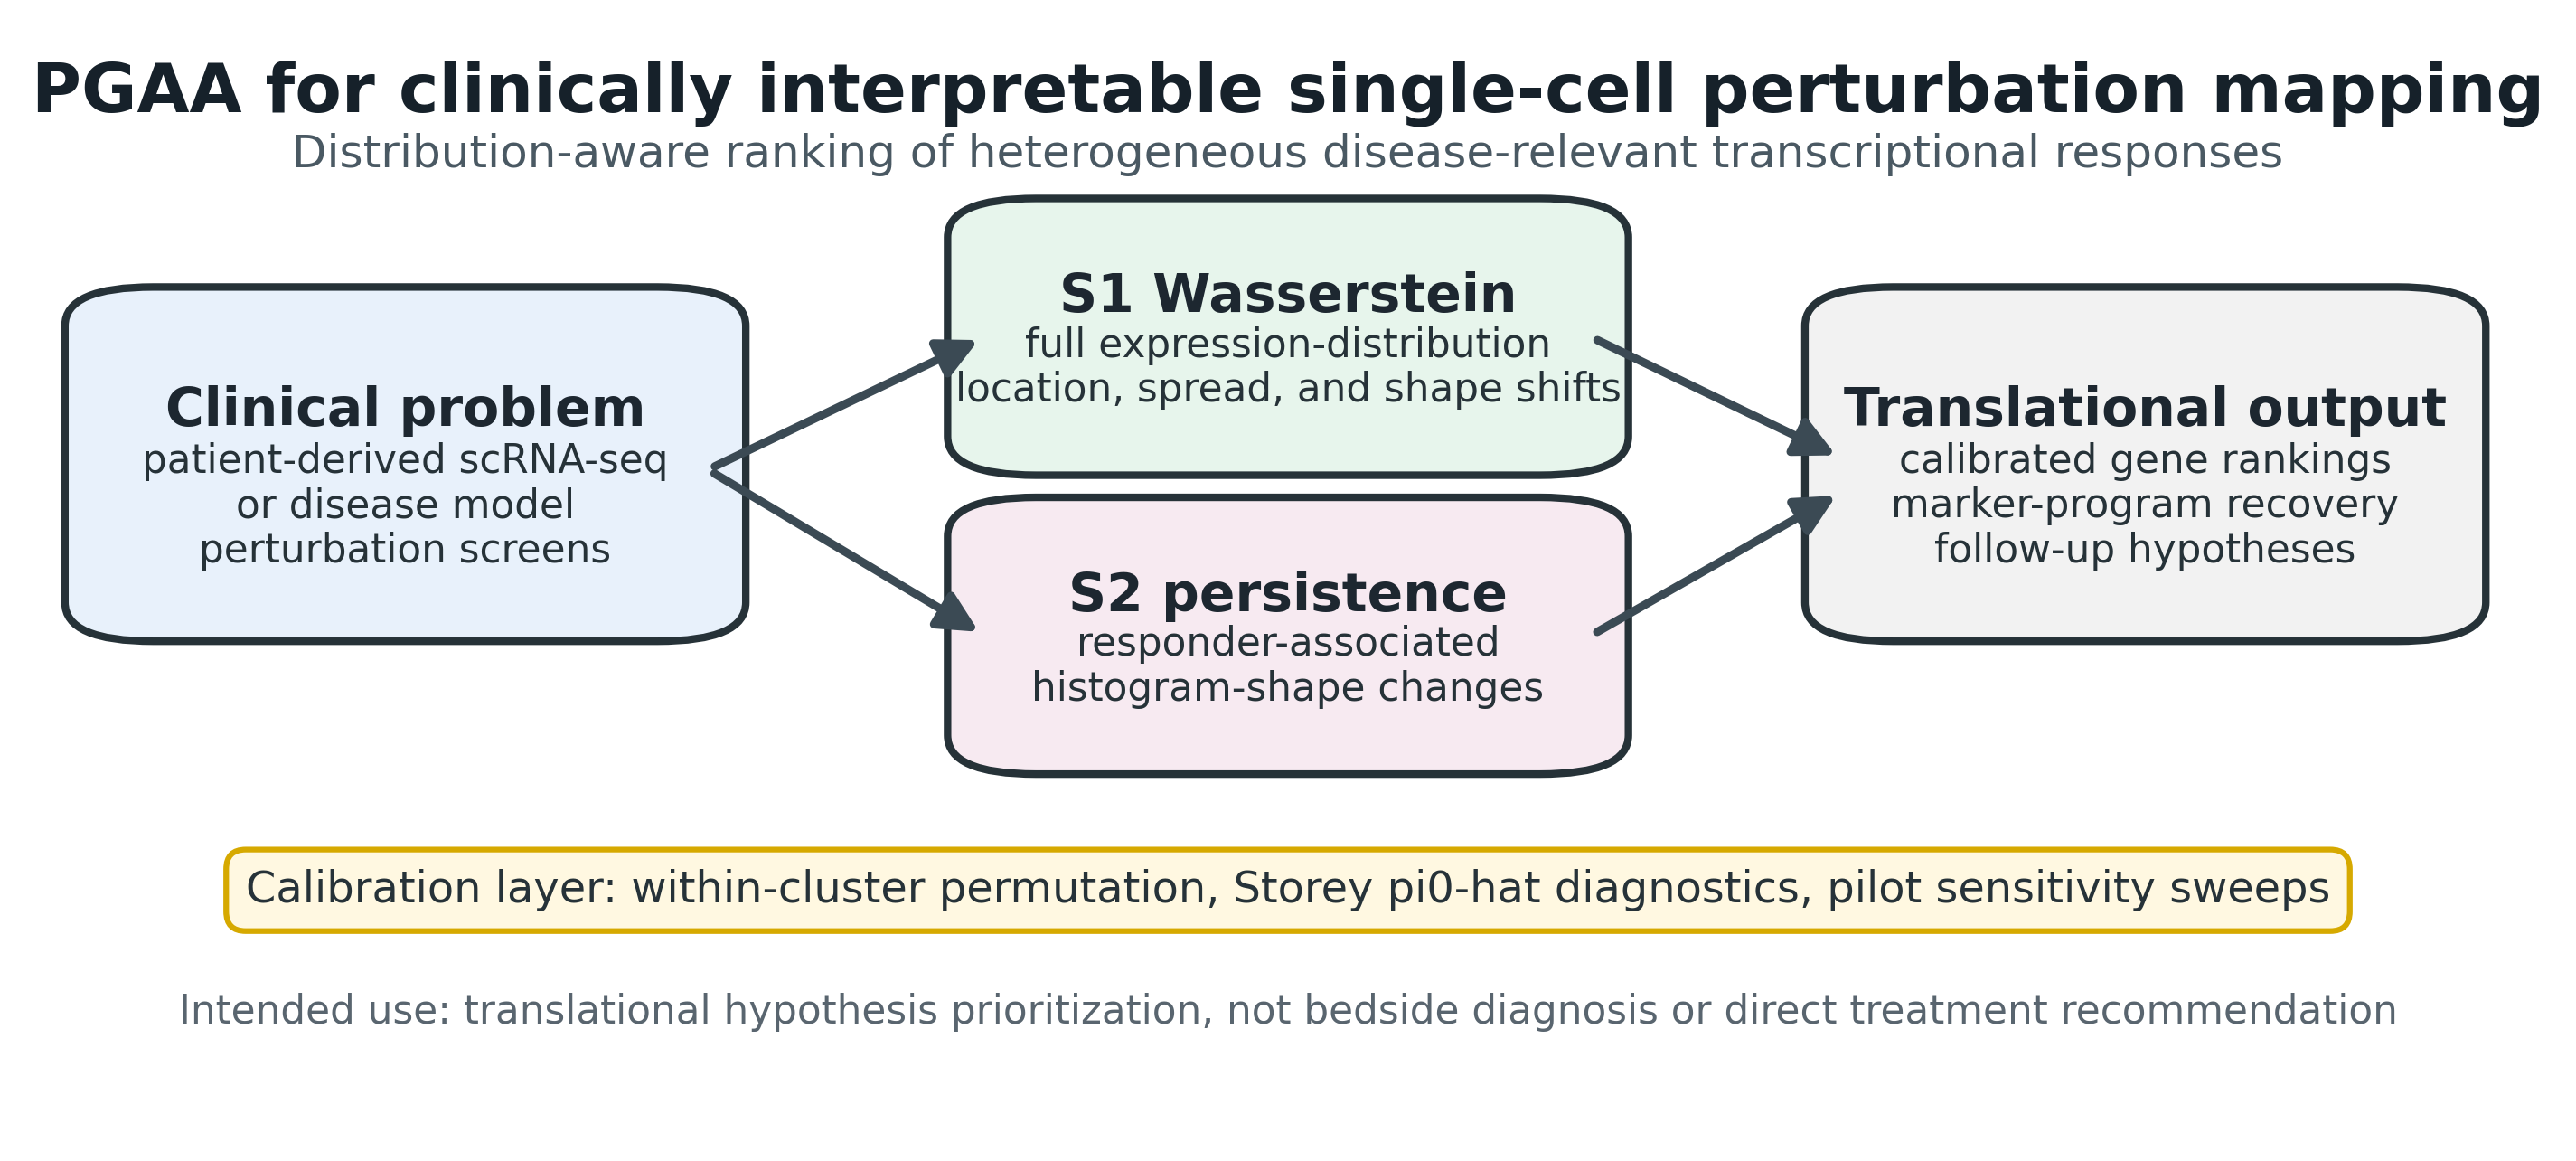
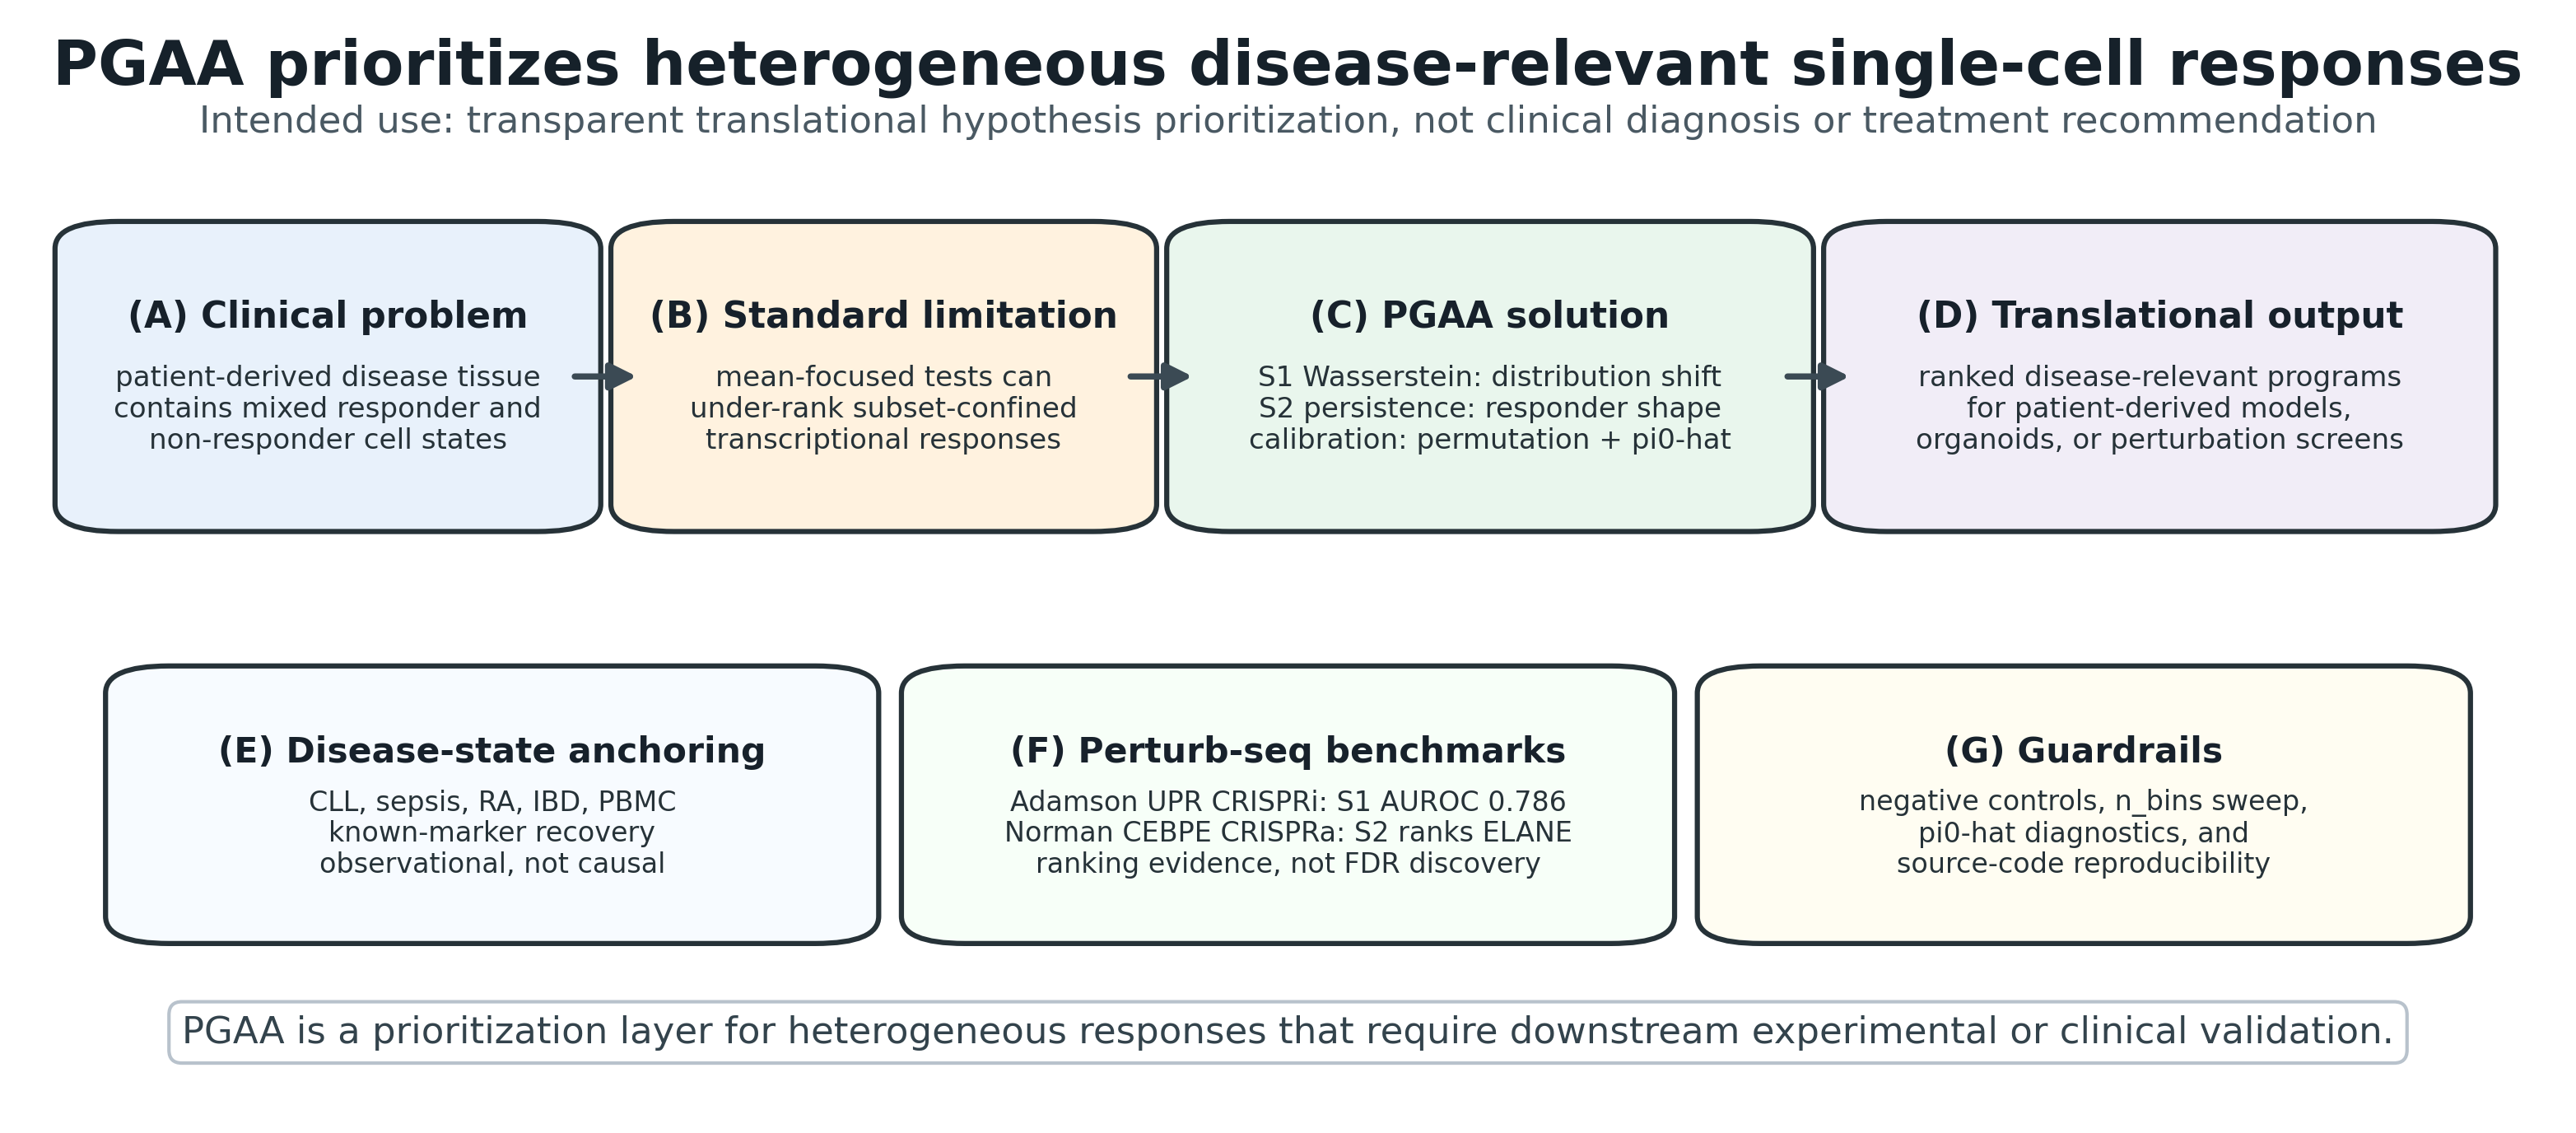
Strengthen CM clinical positioning

diff --git a/COMMUNICATIONS_MEDICINE_TRANSFER/scripts_generate_cm_entry_figure.py b/COMMUNICATIONS_MEDICINE_TRANSFER/scripts_generate_cm_entry_figure.py
@@ -9,23 +9,39 @@ from matplotlib.patches import FancyArrowPatch, FancyBboxPatch
 OUT = Path("figures_png/figure_cm_entry.png")
 
 
-def box(ax, xy, wh, title, body, fc, ec="#263238"):
+def box(ax, xy, wh, title, body, fc, ec="#263238", title_size=10.5, body_size=8.2):
     x, y = xy
     w, h = wh
     patch = FancyBboxPatch(
         (x, y),
         w,
         h,
-        boxstyle="round,pad=0.025,rounding_size=0.035",
+        boxstyle="round,pad=0.018,rounding_size=0.025",
         facecolor=fc,
         edgecolor=ec,
-        linewidth=2.0,
+        linewidth=1.5,
     )
     ax.add_patch(patch)
-    ax.text(x + w / 2, y + h * 0.68, title, ha="center", va="center",
-            fontsize=14, weight="bold", color="#1d2730")
-    ax.text(x + w / 2, y + h * 0.36, body, ha="center", va="center",
-            fontsize=10.5, color="#263238", linespacing=1.2)
+    ax.text(
+        x + w / 2,
+        y + h * 0.72,
+        title,
+        ha="center",
+        va="center",
+        fontsize=title_size,
+        weight="bold",
+        color="#17212b",
+    )
+    ax.text(
+        x + w / 2,
+        y + h * 0.38,
+        body,
+        ha="center",
+        va="center",
+        fontsize=body_size,
+        color="#263238",
+        linespacing=1.18,
+    )
 
 
 def arrow(ax, start, end):
@@ -34,23 +50,23 @@ def arrow(ax, start, end):
             start,
             end,
             arrowstyle="-|>",
-            mutation_scale=22,
-            linewidth=2.2,
+            mutation_scale=16,
+            linewidth=1.8,
             color="#3b4a54",
         )
     )
 
 
 def main():
-    fig, ax = plt.subplots(figsize=(12, 5.3))
+    fig, ax = plt.subplots(figsize=(13.2, 5.7))
     ax.set_xlim(0, 1)
     ax.set_ylim(0, 1)
     ax.axis("off")
 
     ax.text(
         0.5,
-        0.94,
-        "PGAA for clinically interpretable single-cell perturbation mapping",
+        0.96,
+        "PGAA prioritizes heterogeneous disease-relevant single-cell responses",
         ha="center",
         va="center",
         fontsize=18,
@@ -59,70 +75,91 @@ def main():
     )
     ax.text(
         0.5,
-        0.885,
-        "Distribution-aware ranking of heterogeneous disease-relevant transcriptional responses",
+        0.91,
+        "Intended use: transparent translational hypothesis prioritization, not clinical diagnosis or treatment recommendation",
         ha="center",
         va="center",
-        fontsize=12,
+        fontsize=10.8,
         color="#4a5963",
     )
 
     box(
         ax,
-        (0.04, 0.47),
-        (0.22, 0.27),
-        "Clinical problem",
-        "patient-derived scRNA-seq\nor disease model\nperturbation screens",
+        (0.03, 0.55),
+        (0.18, 0.25),
+        "(A) Clinical problem",
+        "patient-derived disease tissue\ncontains mixed responder and\nnon-responder cell states",
         "#e8f1fb",
     )
     box(
         ax,
-        (0.39, 0.62),
-        (0.22, 0.20),
-        "S1 Wasserstein",
-        "full expression-distribution\nlocation, spread, and shape shifts",
-        "#e7f5ec",
+        (0.25, 0.55),
+        (0.18, 0.25),
+        "(B) Standard limitation",
+        "mean-focused tests can\nunder-rank subset-confined\ntranscriptional responses",
+        "#fff2df",
     )
     box(
         ax,
-        (0.39, 0.35),
-        (0.22, 0.20),
-        "S2 persistence",
-        "responder-associated\nhistogram-shape changes",
-        "#f7eaf1",
+        (0.47, 0.55),
+        (0.22, 0.25),
+        "(C) PGAA solution",
+        "S1 Wasserstein: distribution shift\nS2 persistence: responder shape\ncalibration: permutation + pi0-hat",
+        "#e9f6ed",
     )
     box(
         ax,
-        (0.73, 0.47),
-        (0.22, 0.27),
-        "Translational output",
-        "calibrated gene rankings\nmarker-program recovery\nfollow-up hypotheses",
-        "#f2f2f2",
+        (0.73, 0.55),
+        (0.23, 0.25),
+        "(D) Translational output",
+        "ranked disease-relevant programs\nfor patient-derived models,\norganoids, or perturbation screens",
+        "#f1edf7",
     )
 
-    arrow(ax, (0.27, 0.60), (0.38, 0.72))
-    arrow(ax, (0.27, 0.60), (0.38, 0.45))
-    arrow(ax, (0.62, 0.72), (0.72, 0.61))
-    arrow(ax, (0.62, 0.45), (0.72, 0.58))
+    arrow(ax, (0.215, 0.675), (0.245, 0.675))
+    arrow(ax, (0.435, 0.675), (0.465, 0.675))
+    arrow(ax, (0.695, 0.675), (0.725, 0.675))
+
+    box(
+        ax,
+        (0.05, 0.17),
+        (0.27, 0.22),
+        "(E) Disease-state anchoring",
+        "CLL, sepsis, RA, IBD, PBMC\nknown-marker recovery\nobservational, not causal",
+        "#f7fbff",
+        title_size=10.2,
+        body_size=8.0,
+    )
+    box(
+        ax,
+        (0.365, 0.17),
+        (0.27, 0.22),
+        "(F) Perturb-seq benchmarks",
+        "Adamson UPR CRISPRi: S1 AUROC 0.786\nNorman CEBPE CRISPRa: S2 ranks ELANE\nranking evidence, not FDR discovery",
+        "#f7fff8",
+        title_size=10.2,
+        body_size=8.0,
+    )
+    box(
+        ax,
+        (0.68, 0.17),
+        (0.27, 0.22),
+        "(G) Guardrails",
+        "negative controls, n_bins sweep,\npi0-hat diagnostics, and\nsource-code reproducibility",
+        "#fffdf2",
+        title_size=10.2,
+        body_size=8.0,
+    )
 
     ax.text(
         0.5,
-        0.22,
-        "Calibration layer: within-cluster permutation, Storey pi0-hat diagnostics, pilot sensitivity sweeps",
+        0.07,
+        "PGAA is a prioritization layer for heterogeneous responses that require downstream experimental or clinical validation.",
         ha="center",
         va="center",
-        fontsize=11.5,
-        color="#263238",
-        bbox=dict(boxstyle="round,pad=0.45", fc="#fff8e1", ec="#d6a900", lw=1.5),
-    )
-    ax.text(
-        0.5,
-        0.11,
-        "Intended use: translational hypothesis prioritization, not bedside diagnosis or direct treatment recommendation",
-        ha="center",
-        va="center",
-        fontsize=10.5,
-        color="#59656f",
+        fontsize=10.8,
+        color="#33434c",
+        bbox=dict(boxstyle="round,pad=0.35", fc="#ffffff", ec="#b8c2cc", lw=1.0),
     )
 
     fig.savefig(OUT, dpi=300, bbox_inches="tight")

diff --git a/COMMUNICATIONS_MEDICINE_TRANSFER/verify_cm_transfer_ready.py b/COMMUNICATIONS_MEDICINE_TRANSFER/verify_cm_transfer_ready.py
@@ -52,12 +52,12 @@ FORBIDDEN_MANUSCRIPT_PATTERNS = [
 REQUIRED_MANUSCRIPT_REGEXES = [
     r"disease-relevant",
     r"translational",
-    r"marker[- ]recovery[\s\S]{0,80}causal validation",
+    r"marker[- ](?:recovery|prioritization)[\s\S]{0,120}causal validation",
     r"Data availability",
     r"Code availability",
     r"Competing interests",
     r"public repository[\s\S]{0,160}archive identifiers[\s\S]{0,120}before\s+(?:final\s+)?submission",
-    r"Figure 1:[\s\S]{0,120}clinically oriented single-cell perturbation mapping",
+    r"Figure 1:[\s\S]{0,160}clinically oriented single-cell perturbation mapping",
 ]
 
 
@@ -175,10 +175,6 @@ def main() -> None:
         fail("expected archive placeholder missing from portal inputs; update verifier after DOI insertion")
     if "OPT OUT of publication of reviewer reports" not in portal:
         fail("transparent peer review preference is not set in portal inputs")
-
-    cover = (PACKET / "COVER_LETTER_COMMUNICATIONS_MEDICINE.md").read_text()
-    if "OPT OUT of publication of the reviewer reports" not in cover:
-        fail("transparent peer review preference is not stated in the cover letter")
 
     print("CM TRANSFER CHECK PASSED")
     print(f"Packet files: {len(REQUIRED_PACKET_FILES)}")

diff --git a/COMMUNICATIONS_MEDICINE_TRANSFER/MANUSCRIPT_CM.md b/COMMUNICATIONS_MEDICINE_TRANSFER/MANUSCRIPT_CM.md
@@ -1,4 +1,4 @@
-# Distribution-aware single-cell perturbation analysis for heterogeneous disease-relevant transcriptional responses
+# A distribution-aware framework for prioritizing heterogeneous disease-relevant responses in single-cell perturbation data
 
 **Authors**: Xiaolei Wei<sup>1†</sup>, Haiqing Zheng<sup>2†</sup>, Junwei Huang<sup>1†</sup>, Qi Wei<sup>1</sup>, Yongqiang Wei<sup>1</sup>, Ru Feng<sup>1</sup>, Xutao Guo<sup>1,3\*</sup>
 
@@ -11,18 +11,20 @@
 
 ## Abstract
 
-Single-cell perturbation screens are increasingly used to nominate disease mechanisms and therapeutic targets, but many analyses emphasize average expression changes and can miss heterogeneous cellular responses. We present PGAA, a distribution-aware framework for ranking perturbation-associated transcriptional responses using a Wasserstein statistic for full-expression-distribution shifts and a persistent-homology statistic for responder-associated expression-shape changes. Across five disease-relevant observational scRNA-seq datasets, Wasserstein recovered known pathway markers with 2.1-5.8x top-100 enrichment, including B-cell receptor signaling in chronic lymphocytic leukemia (AUROC 0.87), interpreted as marker recovery rather than causal validation. In Norman 2019 CEBPE CRISPRa, persistence ranked ELANE 57/2012, compared with 1761 and 1452 for SCEPTRE and Wasserstein; this is ranking evidence, not FDR-controlled discovery. A small independent Adamson 2016 unfolded-protein-response CRISPRi benchmark, calibration analyses, and simulations define operating regimes and limitations. PGAA is provided as Python/R software with source data, tests, and build scripts; final public repository and archive identifiers will be supplied before submission.
+Patient-derived single-cell datasets and disease-model perturbation screens often contain responder states that are confined to a subset of cells, making target-prioritization difficult when analyses focus only on average expression changes. We present PGAA, a distribution-aware framework for prioritizing heterogeneous transcriptional responses in single-cell perturbation data and marker-anchored disease-state contrasts. PGAA combines a Wasserstein statistic for full-expression-distribution shifts with a persistent-homology statistic for responder-associated expression-shape changes, both accompanied by permutation calibration and Storey pi0-hat diagnostics. Across five disease-relevant observational scRNA-seq datasets, Wasserstein recovered known pathway markers with 2.1-5.8x top-100 enrichment, including B-cell receptor signaling in chronic lymphocytic leukemia (AUROC 0.87), interpreted as disease-state marker prioritization rather than causal validation. In a small independent Adamson 2016 unfolded-protein-response CRISPRi benchmark, Wasserstein achieved mean AUROC 0.786 across five perturbations, outperforming Wilcoxon, t-test, and MAST in this benchmark. Norman 2019 CEBPE CRISPRa illustrates the narrower use case for persistence: ELANE ranked 57/2012, but this is ranking evidence rather than FDR-controlled discovery and does not recover the complete CEBPE target program. PGAA is intended for translational hypothesis prioritization, not bedside diagnosis or treatment recommendation, and is provided as Python/R software with source data, tests, and build scripts; final public repository and archive identifiers will be supplied before submission.
 
 **Keywords**: single-cell RNA-seq, Perturb-seq, disease heterogeneity, Wasserstein distance, persistent homology, CRISPR screening
 
 
 ## 1. Introduction
 
-Single-cell transcriptomics has made cellular heterogeneity visible in oncology, immunology, infection, and inflammatory disease. The next translational step is to connect this heterogeneity to perturbation response: which gene programs change when a candidate regulator is activated, inhibited, or used as a virtual disease-state anchor, and which responses are confined to only a subset of cells? Single-cell perturbation screens [Dixit *et al.*, 2016; Adamson *et al.*, 2016; Norman *et al.*, 2019; Replogle *et al.*, 2022] are now a primary tool for causal regulatory network inference [Regev *et al.*, 2017] and are increasingly relevant to target prioritization in disease models.
+Patient-derived tissues contain mixtures of malignant, immune, stromal, infected, inflammatory, and treatment-responsive cell states. For translational single-cell studies, a recurring problem is not only whether a disease-associated program is present, but whether it marks a subset of cells that should be prioritized for functional follow-up. In chronic lymphocytic leukemia (CLL), infection, autoimmune inflammation, and inflammatory bowel disease, such subset-confined programs can point to therapeutic axes or disease-state hypotheses, but they are easily diluted when analysis is reduced to an average expression contrast.
+
+Single-cell perturbation screens [Dixit *et al.*, 2016; Adamson *et al.*, 2016; Norman *et al.*, 2019; Replogle *et al.*, 2022] provide a way to connect cell-state heterogeneity to regulatory perturbations and are increasingly relevant to target prioritization in disease models. However, clinical and translational users also work with patient-derived observational scRNA-seq datasets where no experimental perturbation exists. In that setting, marker-anchored disease-state contrasts can be useful for prioritizing follow-up hypotheses, provided they are not over-interpreted as causal perturbation evidence.
 
 The standard analysis of a perturbation screen compares mean expression of each non-target gene between perturbed and control cells. This works well when a perturbation produces a uniform transcriptional shift. Knock out a transcription factor, its targets drop, and a t-test, Wilcoxon test, MAST, or SCEPTRE can detect the difference [Finak *et al.*, 2015; Barry *et al.*, 2021]. Together with preprocessing workflows in Seurat [Stuart *et al.*, 2019; Hao *et al.*, 2021] and Scanpy [Wolf *et al.*, 2018], these methods form the standard Perturb-seq analysis toolkit.
 
-Many disease-relevant responses, however, are not uniform. CRISPRa [Gilbert *et al.*, 2014] can activate a target in only a fraction of cells. A weak perturbation may shift variance, create responder and non-responder subpopulations, or change the shape of an expression distribution while leaving the mean only modestly changed. Similar patterns are common in patient-derived single-cell data, where disease-associated programs often appear in subsets of malignant, immune, stromal, or inflammatory cells rather than across an entire population. A method that only asks whether the average expression changed can under-rank such signals.
+Many disease-relevant responses, however, are not uniform. CRISPRa [Gilbert *et al.*, 2014] can activate a target in only a fraction of cells. A weak perturbation may shift variance, create responder and non-responder subpopulations, or change the shape of an expression distribution while leaving the mean only modestly changed. Similar patterns are common in patient-derived single-cell data, where disease-associated programs often appear in subsets of malignant, immune, stromal, or inflammatory cells rather than across an entire population. A method that only asks whether the average expression changed can under-rank such signals and can make disease-state prioritization less interpretable.
 
 Few existing Perturb-seq methods make distribution-shape changes a primary output, although heterogeneity-aware approaches are emerging [Heumos *et al.*, 2026]. We present **PGAA**, a Perturb-seq-oriented framework and software implementation for disease-relevant single-cell perturbation analysis. PGAA uses two complementary statistics sharing a common calibration infrastructure: a Wasserstein statistic that captures one-dimensional distributional shifts, and a persistent-homology statistic that ranks histogram-shape changes consistent with responder-associated heterogeneity. Additional modules for conditional MI and Fisher NB testing are provided as software extensions. All statistics are accompanied by a calibration diagnostic (Storey pi0-hat) that lets users assess reliability on their own data before interpreting results.
 

diff --git a/COMMUNICATIONS_MEDICINE_TRANSFER/UPLOAD_PACKET_COMMUNICATIONS_MEDICINE/COVER_LETTER_COMMUNICATIONS_MEDICINE.md b/COMMUNICATIONS_MEDICINE_TRANSFER/UPLOAD_PACKET_COMMUNICATIONS_MEDICINE/COVER_LETTER_COMMUNICATIONS_MEDICINE.md
@@ -1,16 +1,14 @@
 Dear Editors,
 
-Following the editorial recommendation from Nature Methods, we are pleased to submit our manuscript, "Distribution-aware single-cell perturbation analysis for heterogeneous disease-relevant transcriptional responses," for consideration as an Article in Communications Medicine.
+Following the editorial recommendation from Nature Methods, we are pleased to submit our manuscript, "A distribution-aware framework for prioritizing heterogeneous disease-relevant responses in single-cell perturbation data," for consideration as an Article in Communications Medicine.
 
-Single-cell perturbation screens and patient-derived single-cell datasets are increasingly used to nominate disease mechanisms and therapeutic targets, but many analyses still prioritize average expression changes. This can under-rank responses that occur in only a subset of cells, a pattern that is common in heterogeneous malignancies, immune responses, inflammatory tissues, and CRISPRa perturbation systems. PGAA addresses this problem by providing a distribution-aware framework for ranking perturbation-associated transcriptional responses, combining a Wasserstein statistic for full expression-distribution shifts with a persistent-homology statistic for responder-associated expression-shape changes.
+Single-cell perturbation screens and patient-derived single-cell datasets are increasingly used to nominate disease mechanisms and therapeutic targets, but many analyses still prioritize average expression changes. This can under-rank responses that occur in only a subset of cells, a pattern that is common in heterogeneous malignancies, immune responses, inflammatory tissues, and CRISPRa perturbation systems. PGAA addresses this problem by providing a distribution-aware framework for prioritizing heterogeneous transcriptional responses in perturbation data and marker-anchored disease-state contrasts.
 
 We believe the manuscript fits Communications Medicine because it presents a computational method and software resource with translational relevance to disease-focused single-cell perturbation analysis. In five disease-relevant observational scRNA-seq datasets, PGAA recovers known marker programs, including B-cell receptor signaling in chronic lymphocytic leukemia. We interpret these analyses conservatively as marker recovery rather than causal validation. We then benchmark the method in two experimental Perturb-seq datasets: Norman 2019 CEBPE CRISPRa, where persistent homology improves ELANE ranking relative to SCEPTRE and Wasserstein, and Adamson 2016 unfolded-protein-response CRISPRi, where the Wasserstein statistic outperforms Wilcoxon, t-test, and MAST in a small independent benchmark. Calibration and simulation analyses define the method's operating regimes and limitations.
 
 The manuscript has been revised specifically for Communications Medicine. We have foregrounded the medical problem of heterogeneous disease-relevant transcriptional responses, clarified the distinction between observational marker recovery and experimental perturbation validation, and avoided claiming new causal disease mechanisms or clinical biomarkers from public observational datasets. Instead, the manuscript positions PGAA as a transparent prioritization layer for heterogeneous responses that can be followed up in disease models, patient-derived systems, or therapeutic perturbation experiments.
 
-The software is implemented in Python and R and is accompanied by source data, test scripts, figure-reproduction scripts, runtime documentation, and a supplementary software archive. The planned public repository is https://github.com/xutaoguo55/pgaa, and the exact submitted software version will be archived with a permanent identifier before final submission/publication. All authors have approved the manuscript. We declare no competing interests.
-
-For Transparent Peer Review, we wish to OPT OUT of publication of the reviewer reports if the manuscript is accepted.
+The software is implemented in Python and R and is accompanied by source data, test scripts, figure-reproduction scripts, runtime documentation, and a supplementary software archive for editors and reviewers. All authors have approved the manuscript. We declare no competing interests.
 
 Thank you for considering our manuscript.
 